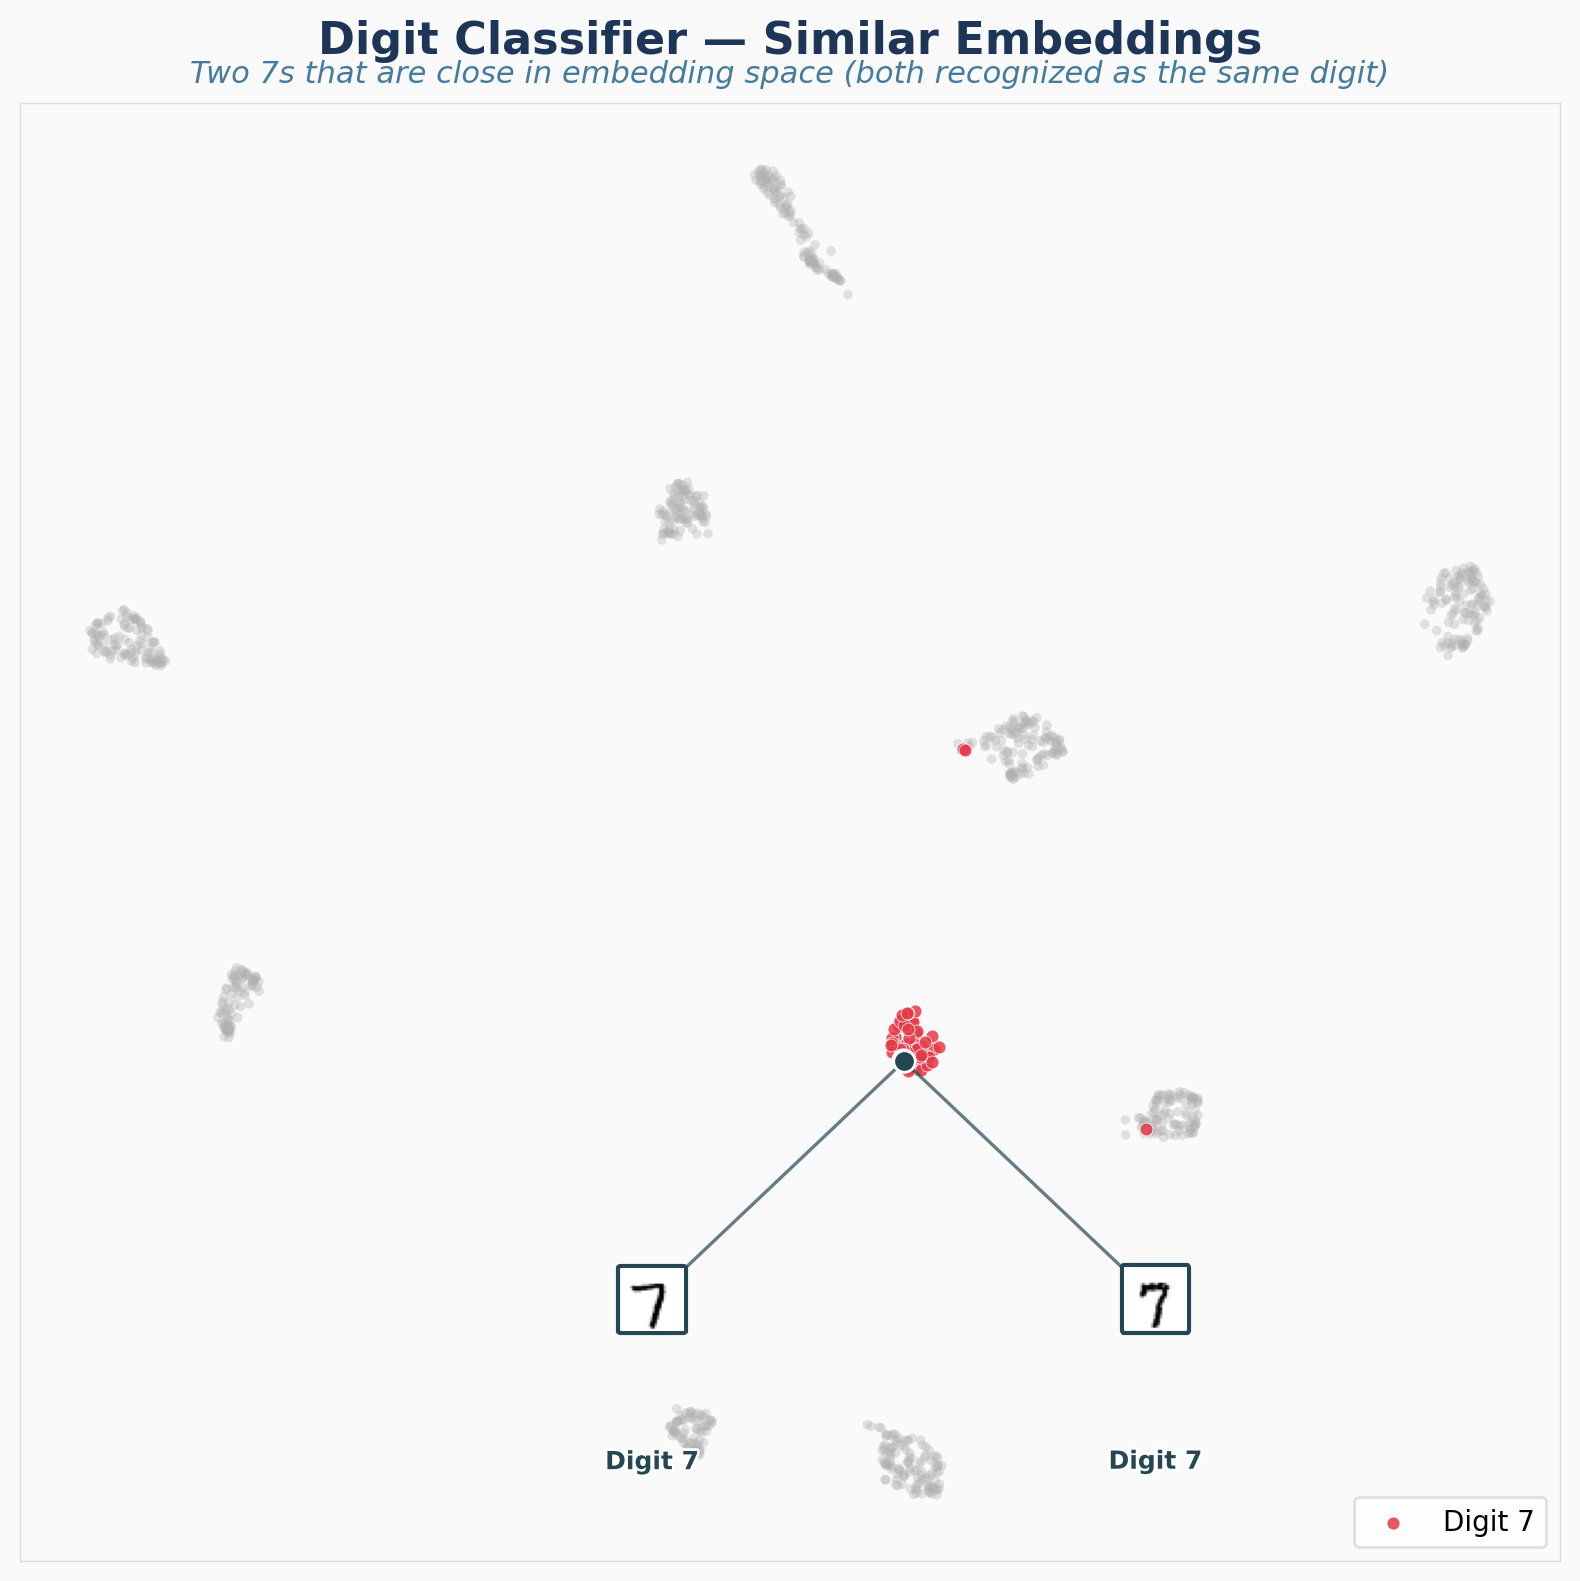
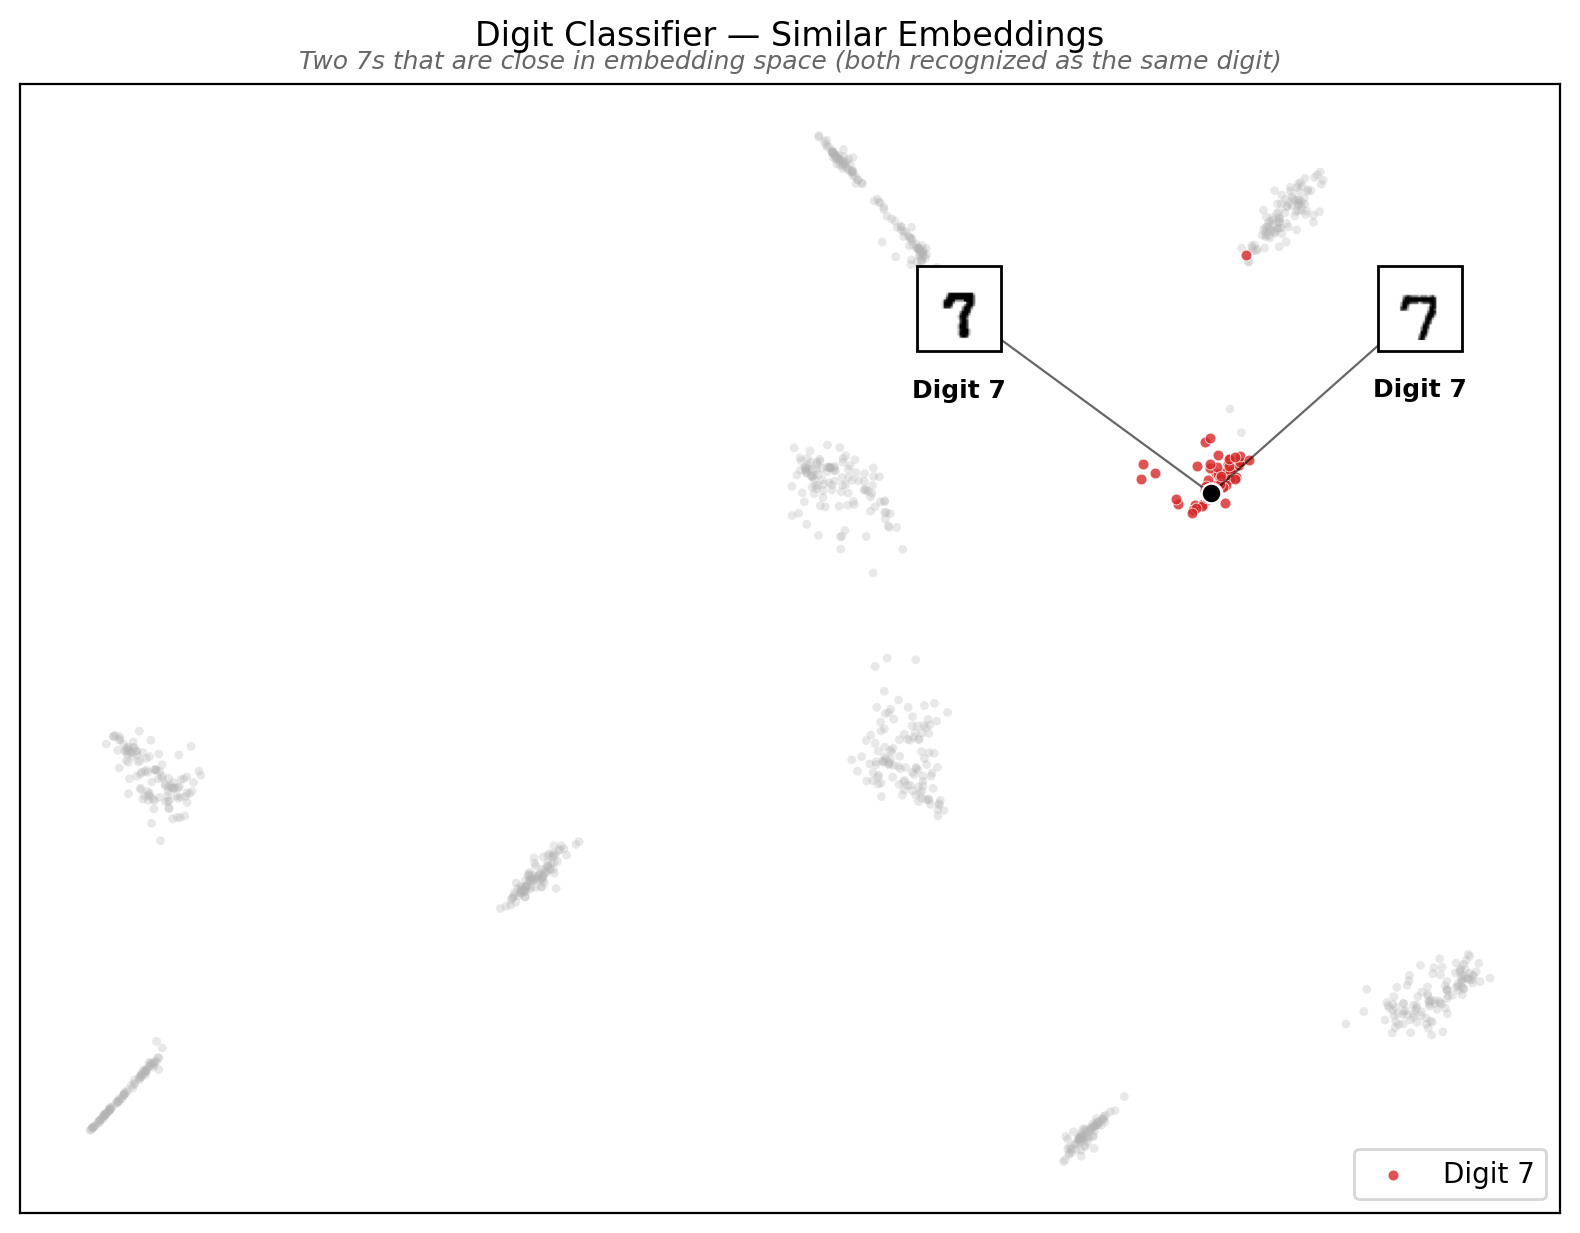
Refine plots w/ CC

diff --git a/src/plot.py b/src/plot.py
@@ -1,54 +1,32 @@
 """Plotting module for MNIST embedding visualizations.
 
-This module generates publication-quality scatterplots of UMAP-projected
-embeddings. It is designed to be configurable and separate from the
-data pipeline so you can iterate on visual style independently.
+This module generates scatterplots of UMAP-projected embeddings.
+It is designed to be configurable and separate from the data pipeline
+so you can iterate on visual style independently.
 
 Main entry points:
     - plot_highlight_scatter(): Basic scatterplot with digit 7 highlighted.
     - plot_with_thumbnails(): Scatterplot with sample digit images overlaid.
     - generate_all_plots(): Convenience function to produce all four figures.
-
-Style configuration is centralized in the STYLE dict at the top of this file.
 """
 
 import numpy as np
 import matplotlib.pyplot as plt
-import matplotlib.patheffects as pe
 from matplotlib.offsetbox import OffsetImage, AnnotationBbox
+
 
 # ---------------------------------------------------------------------------
 # Style configuration — tweak these to change the look of all plots.
 # ---------------------------------------------------------------------------
 STYLE = {
-    # Figure dimensions (inches)
     "figsize": (8, 8),
-
-    # Dot appearance
-    "dot_size": 12,
-    "dot_alpha_bg": 0.35,
-    "dot_alpha_fg": 0.85,
-    "color_bg": "#B0B0B0",
-    "color_fg": "#E63946",
-
-    # Thumbnail overlay settings
-    "thumb_zoom": 0.8,
-    "thumb_border_color": "#264653",
-    "thumb_border_width": 1.5,
-    "line_color": "#264653",
-    "line_width": 1.2,
-    "line_alpha": 0.7,
-
-    # Typography
-    "title_fontsize": 16,
-    "title_fontweight": "bold",
-    "subtitle_fontsize": 11,
-    "label_fontsize": 10,
-
-    # Layout
     "dpi": 200,
-    "bg_color": "#FAFAFA",
-    "spine_color": "#DDDDDD",
+    "dot_size": 10,
+    "dot_alpha_bg": 0.3,
+    "dot_alpha_fg": 0.8,
+    "color_bg": "0.7",
+    "color_fg": "tab:red",
+    "thumb_zoom": 0.8,
 }
 
 
@@ -60,28 +38,19 @@ def _setup_axes(ax, title: str, subtitle: str = ""):
         title: Main title string.
         subtitle: Optional subtitle displayed below the title.
     """
-    ax.set_facecolor(STYLE["bg_color"])
-    ax.set_title(
-        title,
-        fontsize=STYLE["title_fontsize"],
-        fontweight=STYLE["title_fontweight"],
-        pad=18 if subtitle else 12,
-        color="#1D3557",
-    )
+    ax.set_title(title, pad=14 if subtitle else 10)
     if subtitle:
         ax.text(
             0.5, 1.01, subtitle,
             transform=ax.transAxes,
             ha="center", va="bottom",
-            fontsize=STYLE["subtitle_fontsize"],
-            color="#457B9D",
+            fontsize=9,
             style="italic",
+            color="0.4",
         )
     ax.set_xticks([])
     ax.set_yticks([])
-    for spine in ax.spines.values():
-        spine.set_color(STYLE["spine_color"])
-        spine.set_linewidth(0.5)
+    ax.set_aspect("equal")
 
 
 def plot_highlight_scatter(
@@ -108,7 +77,7 @@ def plot_highlight_scatter(
     Returns:
         matplotlib Figure object.
     """
-    fig, ax = plt.subplots(figsize=STYLE["figsize"], facecolor=STYLE["bg_color"])
+    fig, ax = plt.subplots(figsize=STYLE["figsize"])
     _setup_axes(ax, title, subtitle)
 
     mask = labels == highlight_digit
@@ -124,7 +93,7 @@ def plot_highlight_scatter(
     # Highlighted points
     ax.scatter(
         coords_2d[mask, 0], coords_2d[mask, 1],
-        s=STYLE["dot_size"] * 1.8,
+        s=STYLE["dot_size"] * 1.5,
         c=STYLE["color_fg"],
         alpha=STYLE["dot_alpha_fg"],
         edgecolors="white",
@@ -132,18 +101,11 @@ def plot_highlight_scatter(
         zorder=2,
         label=f"Digit {highlight_digit}",
     )
-    ax.legend(
-        loc="lower right",
-        fontsize=STYLE["label_fontsize"],
-        frameon=True,
-        fancybox=True,
-        framealpha=0.9,
-        edgecolor=STYLE["spine_color"],
-    )
+    ax.legend(loc="lower right")
 
     plt.tight_layout()
     if save_path:
-        fig.savefig(save_path, dpi=STYLE["dpi"], bbox_inches="tight", facecolor=fig.get_facecolor())
+        fig.savefig(save_path, dpi=STYLE["dpi"], bbox_inches="tight")
         print(f"  Saved {save_path}")
     return fig
 
@@ -153,25 +115,18 @@ def _add_thumbnail(ax, image: np.ndarray, xy_point, xy_offset, label_text: str =
 
     Args:
         ax: Matplotlib Axes.
-        image: 28×28 grayscale image array (values in [0, 1]).
+        image: 28x28 grayscale image array (values in [0, 1]).
         xy_point: (x, y) coordinates of the data point.
         xy_offset: (x, y) coordinates where the thumbnail should be placed.
         label_text: Optional text label below the thumbnail.
     """
-    im = OffsetImage(
-        image, cmap="gray_r", zoom=STYLE["thumb_zoom"],
-    )
+    im = OffsetImage(image, cmap="gray_r", zoom=STYLE["thumb_zoom"])
     im.image.axes = ax
 
     ab = AnnotationBbox(
         im, xy_offset,
         frameon=True,
-        bboxprops=dict(
-            edgecolor=STYLE["thumb_border_color"],
-            linewidth=STYLE["thumb_border_width"],
-            facecolor="white",
-            boxstyle="round,pad=0.1",
-        ),
+        bboxprops=dict(edgecolor="black", linewidth=1.0, facecolor="white"),
         zorder=10,
     )
     ax.add_artist(ab)
@@ -181,30 +136,26 @@ def _add_thumbnail(ax, image: np.ndarray, xy_point, xy_offset, label_text: str =
         "",
         xy=xy_point,
         xytext=xy_offset,
-        arrowprops=dict(
-            arrowstyle="-",
-            color=STYLE["line_color"],
-            linewidth=STYLE["line_width"],
-            alpha=STYLE["line_alpha"],
-        ),
+        arrowprops=dict(arrowstyle="-", color="black", linewidth=0.8, alpha=0.6),
         zorder=9,
     )
 
     # Data-point marker
     ax.scatter(
         [xy_point[0]], [xy_point[1]],
-        s=60, c=STYLE["thumb_border_color"],
-        marker="o", edgecolors="white", linewidths=1.0, zorder=11,
+        s=50, c="black",
+        marker="o", edgecolors="white", linewidths=0.8, zorder=11,
     )
 
     if label_text:
-        ax.text(
-            xy_offset[0], xy_offset[1] - 3.0,
+        # Use axes transform for consistent offset regardless of data scale
+        ax.annotate(
             label_text,
+            xy=xy_offset,
+            xytext=(0, -25),
+            textcoords="offset points",
             ha="center", va="top",
             fontsize=9, fontweight="bold",
-            color=STYLE["thumb_border_color"],
-            path_effects=[pe.withStroke(linewidth=2, foreground="white")],
             zorder=12,
         )
 
@@ -240,7 +191,7 @@ def plot_with_thumbnails(
     Returns:
         matplotlib Figure object.
     """
-    fig, ax = plt.subplots(figsize=STYLE["figsize"], facecolor=STYLE["bg_color"])
+    fig, ax = plt.subplots(figsize=STYLE["figsize"])
     _setup_axes(ax, title, subtitle)
 
     mask = labels == highlight_digit
@@ -254,7 +205,7 @@ def plot_with_thumbnails(
     )
     ax.scatter(
         coords_2d[mask, 0], coords_2d[mask, 1],
-        s=STYLE["dot_size"] * 1.8,
+        s=STYLE["dot_size"] * 1.5,
         c=STYLE["color_fg"],
         alpha=STYLE["dot_alpha_fg"],
         edgecolors="white",
@@ -286,18 +237,11 @@ def plot_with_thumbnails(
             lbl = thumbnail_labels[i] if thumbnail_labels else ""
             _add_thumbnail(ax, raw_images[idx], tuple(pt), offset, label_text=lbl)
 
-    ax.legend(
-        loc="lower right",
-        fontsize=STYLE["label_fontsize"],
-        frameon=True,
-        fancybox=True,
-        framealpha=0.9,
-        edgecolor=STYLE["spine_color"],
-    )
+    ax.legend(loc="lower right")
 
     plt.tight_layout()
     if save_path:
-        fig.savefig(save_path, dpi=STYLE["dpi"], bbox_inches="tight", facecolor=fig.get_facecolor())
+        fig.savefig(save_path, dpi=STYLE["dpi"], bbox_inches="tight")
         print(f"  Saved {save_path}")
     return fig
 
@@ -384,7 +328,7 @@ def generate_all_plots(data_path: str = "plots/embedding_data.npz", output_dir: 
     plot_highlight_scatter(
         digit_2d, labels,
         title="Digit Classifier Embeddings",
-        subtitle="CNN trained to recognize digits 0–9 · UMAP projection",
+        subtitle="CNN trained to recognize digits 0-9 | UMAP projection",
         save_path=os.path.join(output_dir, "digit_scatter.png"),
     )
     plt.close()
@@ -393,7 +337,7 @@ def generate_all_plots(data_path: str = "plots/embedding_data.npz", output_dir: 
     plot_highlight_scatter(
         eo_2d, labels,
         title="Even/Odd Classifier Embeddings",
-        subtitle="CNN trained to classify even vs. odd · UMAP projection",
+        subtitle="CNN trained to classify even vs. odd | UMAP projection",
         save_path=os.path.join(output_dir, "evenodd_scatter.png"),
     )
     plt.close()

diff --git a/src/embed.py b/src/embed.py
@@ -62,18 +62,33 @@ def extract_embeddings(model: MnistCNN, images: torch.Tensor) -> np.ndarray:
     return embeddings.cpu().numpy()
 
 
-def project_umap(embeddings: np.ndarray, seed: int = SEED) -> np.ndarray:
+def project_umap(
+    embeddings: np.ndarray,
+    seed: int = SEED,
+    n_neighbors: int = 30,
+    min_dist: float = 0.1,
+    spread: float = 0.5,
+) -> np.ndarray:
     """Project embeddings to 2D using UMAP.
 
     Args:
         embeddings: Array of shape (n, d).
         seed: Random seed for reproducibility.
+        n_neighbors: Number of neighbors for UMAP (higher = more global structure).
+        min_dist: Minimum distance between points in 2D (lower = tighter clusters).
+        spread: Scale of embedded points (lower = clusters closer together).
 
     Returns:
         Array of shape (n, 2).
     """
     import umap
-    reducer = umap.UMAP(n_components=2, random_state=seed, n_neighbors=15, min_dist=0.1)
+    reducer = umap.UMAP(
+        n_components=2,
+        random_state=seed,
+        n_neighbors=n_neighbors,
+        min_dist=min_dist,
+        spread=spread,
+    )
     return reducer.fit_transform(embeddings)
 
 
@@ -95,13 +110,14 @@ if __name__ == "__main__":
     # Digit model embeddings
     digit_model = load_model("models/digit_classifier.pt", num_classes=10)
     digit_emb = extract_embeddings(digit_model, images)
-    digit_2d = project_umap(digit_emb)
+    digit_2d = project_umap(digit_emb, spread=0.3)
     print(f"Digit embeddings shape: {digit_emb.shape} → UMAP: {digit_2d.shape}")
 
-    # Even/odd model embeddings
+    # Even/odd model embeddings — higher n_neighbors to emphasize global
+    # (even vs odd) structure rather than digit-level sub-clusters
     eo_model = load_model("models/even_odd_classifier.pt", num_classes=2)
     eo_emb = extract_embeddings(eo_model, images)
-    eo_2d = project_umap(eo_emb)
+    eo_2d = project_umap(eo_emb, n_neighbors=100, min_dist=0.2, spread=0.3)
     print(f"Even/odd embeddings shape: {eo_emb.shape} → UMAP: {eo_2d.shape}")
 
     # Save for plotting
